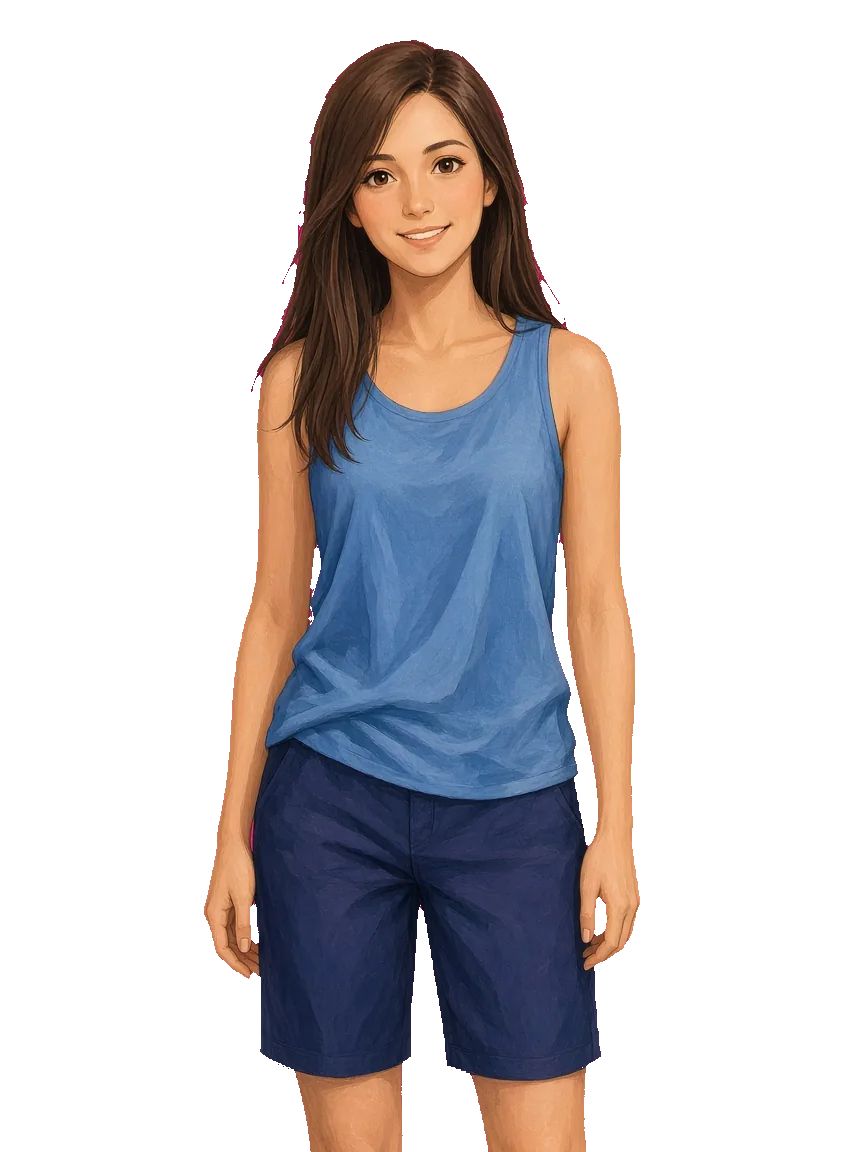
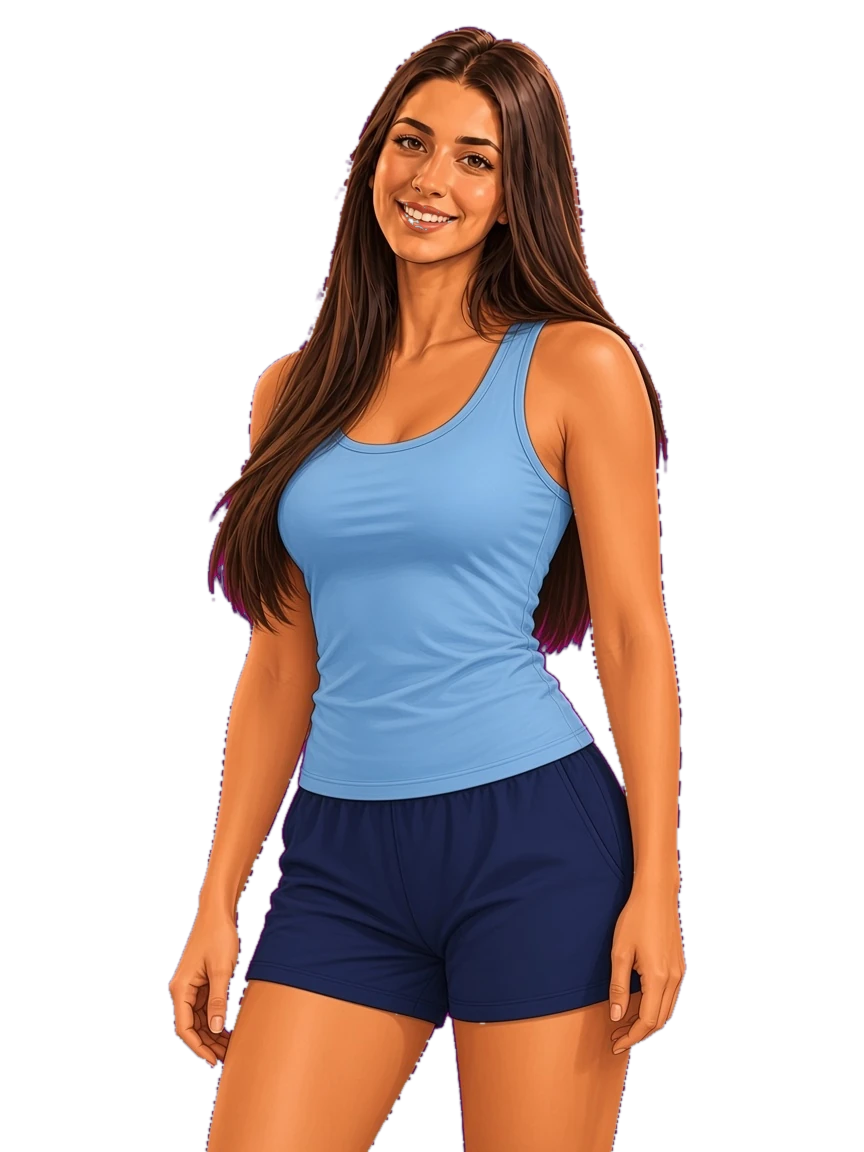
Match Nikola wave/swim body to airport bare canon.
Replace evening-wave and swim-short sprites so the bare torso mass,
chest hair, and warm painterly look follow nikola-dream-bare-buzz-v3;
restyle ana-swim toward ana-camera. Keep pose, props, and buzz identity.

diff --git a/artwork/style-consistency/AUDIT.md b/artwork/style-consistency/AUDIT.md
@@ -1,0 +1,29 @@
+# Визуальная согласованность · ранние прогулки и Ада
+
+Сверка новых портретов из PR #22 с эталонами (Никола buzz-v3, Милица, Йелена v2, Драган evening).
+
+## Решение по файлам
+
+| Файл | Вердикт | Почему |
+|---|---|---|
+| `marko-door-v1.webp`, `marko-swim-v1.webp` | оставить | Живописный свет, лицо и тело совпадают с draft-референсом |
+| `stefan-workshop-v1.webp`, `stefan-swim-v1.webp` | оставить | Та же проработка, мягкие тени |
+| `ana-camera-v1.webp` | оставить | Хороший эталон для Аны |
+| `ana-swim-v1.webp` | **заменён** | Лицо/причёска и более плоский рендер расходились с `ana-camera-v1` |
+| `milica-show/wave/riverside/swim` | оставить | Согласованы с `milica.webp` |
+| `jelena-stroll-*`, `jelena-swim-v1` | оставить | Согласованы с `jelena-v2` |
+| `asya-pointing-v1.webp` | оставить | Совпадает с `asya-friendly` |
+| `vuk-headphones-v1.webp`, `vuk-swim-v1.webp` | оставить | Внутренне согласованы |
+| `nikola-guide/napkin-buzz-v3` | оставить | Лицо и фартук как у `nikola-friendly-buzz-v3` |
+| `nikola-evening-wave-buzz-v3.webp` | **заменён** | Были длинные волнистые волосы вместо buzz; фигура не совпадала с аэропортным `nikola-dream-bare-buzz-v3` |
+| `nikola-swim-short-buzz-v3.webp` | **заменён** | Пластичный блеск и упрощённые контуры; фигура подогнана к `nikola-dream-bare-buzz-v3` |
+
+## Эталон фигуры Николы
+
+Без фартука канон — `public/assets/nikola-dream-bare-buzz-v3.webp` (аэропортная фантазия): широкие плечи, крупные pecs, грудной волос, глубокий пресс, тёплый тон кожи, buzz.
+
+Повтор wave/swim (v4) сгенерирован строго с этим референсом: swim — та же стойка (рука на бедре) и тот же торс; wave — та же масса под льняной рубашкой, открытый ворот с тем же грудным волосом.
+
+Оригиналы до замены: `artwork/style-consistency/originals/`.
+Исходники генерации v4: `artwork/style-consistency/sources/`.
+Промпты: `artwork/style-consistency/PROMPTS.json`.
